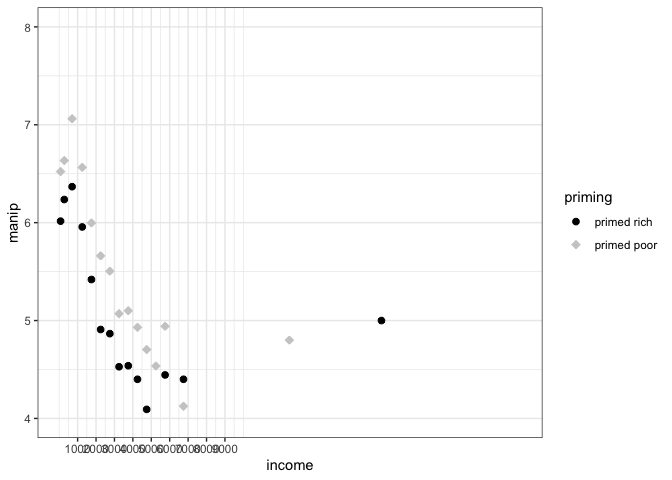
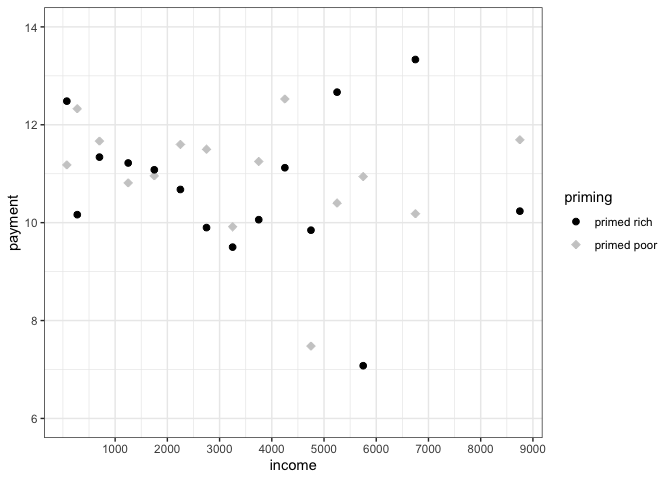
generalize summary plot and add figures a3.1 and a3.2

diff --git a/replication.md b/replication.md
@@ -314,33 +314,47 @@ Manipulation Check (y-axis) vs Income, grouped by “Primed-Rich” and
 “Primed-Poor”
 
 ``` r
-plot_manipulation_vs_income <- function(df)
+plot_var_vs_income <- function(df, var)
 {
     df %>%
         filter(priming %in% c("primed rich", "primed poor")) %>%
         group_by(income, priming) %>%
-        summarize(manip = mean(manip, na.rm = TRUE)) %>% 
+        summarize("{{var}}" := mean({{var}}, na.rm = TRUE), 
+                  .groups = "drop") %>% 
         mutate(priming = fct_relevel(priming, c("primed rich", "primed poor"))) %>%
-        ggplot(aes(x = income, y = manip, 
+        ggplot(aes(x = income, y = {{var}}, 
                    fill = priming, color = priming, shape = priming)) + 
         geom_point(size = 2) + 
         scale_shape_manual(values = c(19, 23)) + 
         scale_fill_manual(values = c("black", "grey80")) + 
         scale_color_manual(values = c("black", "grey80")) + 
-        scale_x_continuous(breaks = seq(from = 1000, to = 9000, by = 1000)) + 
-        scale_y_continuous(limits = c(4, 8)) + 
         theme_bw()
 }
-
-plot_manipulation_vs_income(dat_study1)
 ```
 
-    ## `summarise()` has grouped output by 'income'. You can override using the
-    ## `.groups` argument.
+``` r
+plot_var_vs_income(dat_study1, manip) + 
+    scale_x_continuous(breaks = seq(from = 1000, to = 9000, by = 1000)) + 
+    scale_y_continuous(limits = c(4, 8))
+```
 
     ## Warning: Removed 2 rows containing missing values (`geom_point()`).
 
-![](replication_files/figure-gfm/unnamed-chunk-5-1.png)<!-- -->
+![](replication_files/figure-gfm/unnamed-chunk-6-1.png)<!-- -->
+
+## Figure A3.1
+
+Payments vs. Income, grouped by “Primed-Rich” and “Primed-Poor”
+
+``` r
+plot_var_vs_income(dat_study1, payment) + 
+    scale_x_continuous(breaks = seq(from = 1000, to = 9000, by = 1000)) + 
+    scale_y_continuous(limits = c(6, 14))
+```
+
+    ## Warning: Removed 2 rows containing missing values (`geom_point()`).
+
+![](replication_files/figure-gfm/unnamed-chunk-7-1.png)<!-- -->
 
 # Survey 2
 
@@ -401,10 +415,11 @@ dat_study2 <- df_study2 %>%
                                 "Primed_poor" ~ "primed poor", 
                                 "Primed_rich" ~ "primed rich", 
                                 .default = "control"), 
-           manip = select(., q4_1:q4_10) %>%
+           manip = 11 - select(., q4_1:q4_10) %>%
                mutate_all(~. == "On") %>%
                as.matrix() %>%
-               apply(1, which))
+               apply(1, which), 
+           payment = payoff)
 ```
 
 ## Generate Table 2 (sample summary statistics - survey 1)
@@ -615,7 +630,7 @@ counts <- to_plot %>%
 plot_randomization_by_income(to_plot, counts)
 ```
 
-![](replication_files/figure-gfm/unnamed-chunk-6-1.png)<!-- -->
+![](replication_files/figure-gfm/unnamed-chunk-8-1.png)<!-- -->
 
 ## Figure A2.2
 
@@ -623,12 +638,21 @@ Manipulation Check (y-axis) vs Income, grouped by “Primed-Rich” and
 “Primed-Poor”
 
 ``` r
-plot_manipulation_vs_income(dat_study2)
+plot_var_vs_income(dat_study2, manip) + 
+    scale_x_continuous(breaks = seq(from = 5000, to = 25000, by = 5000)) + 
+    scale_y_continuous(breaks = 4:10)
 ```
 
-    ## `summarise()` has grouped output by 'income'. You can override using the
-    ## `.groups` argument.
+![](replication_files/figure-gfm/unnamed-chunk-9-1.png)<!-- -->
 
-    ## Warning: Removed 7 rows containing missing values (`geom_point()`).
+## Figure A3.2
 
-![](replication_files/figure-gfm/unnamed-chunk-7-1.png)<!-- -->
+Payments vs. Income, grouped by “Primed-Rich” and “Primed-Poor”
+
+``` r
+plot_var_vs_income(dat_study2, payment) + 
+    scale_x_continuous(breaks = seq(from = 5000, to = 25000, by = 5000)) + 
+    scale_y_continuous(limits = c(6, 16))
+```
+
+![](replication_files/figure-gfm/unnamed-chunk-10-1.png)<!-- -->
